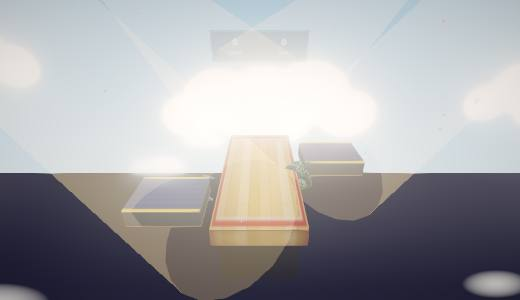
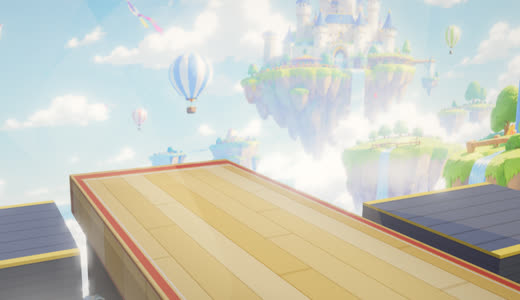
PLATAFORMAS ganha céu pintado: ilhas flutuantes, balões e castelo
Fundo gerado na Higgsfield (GPT Image 2.5) no lugar do céu liso, fundo da
cena na cor das nuvens (antes aparecia uma faixa escura embaixo do painel)
e card do mapa refeito a partir de print do jogo.

diff --git a/src/main.js b/src/main.js
@@ -2077,8 +2077,10 @@ const MAPAS = [
   {
     nome: 'PLATAFORMAS',
     desc: 'ilhas móveis sobre o abismo',
-    fundoTex: FUNDOS.ceuAberto,
+    fundo: 'assets/fundo-plataformas.jpg', // pintado na Higgsfield (GPT Image 2.5)
+    fundoY: -6,
     build(m) {
+      scene.background = new THREE.Color(0xd6e4ff); // mar de nuvens embaixo do painel pintado (senão aparece o breu)
       // Ilha central + duas plataformas que passeiam sobre o abismo
       const matIlha = new THREE.MeshStandardMaterial({ map: deckTex, roughness: 0.85 });
       chaoFixo(m, 1.35, 3.2, matIlha); // faixa central cobre os spawns de cima/baixo
